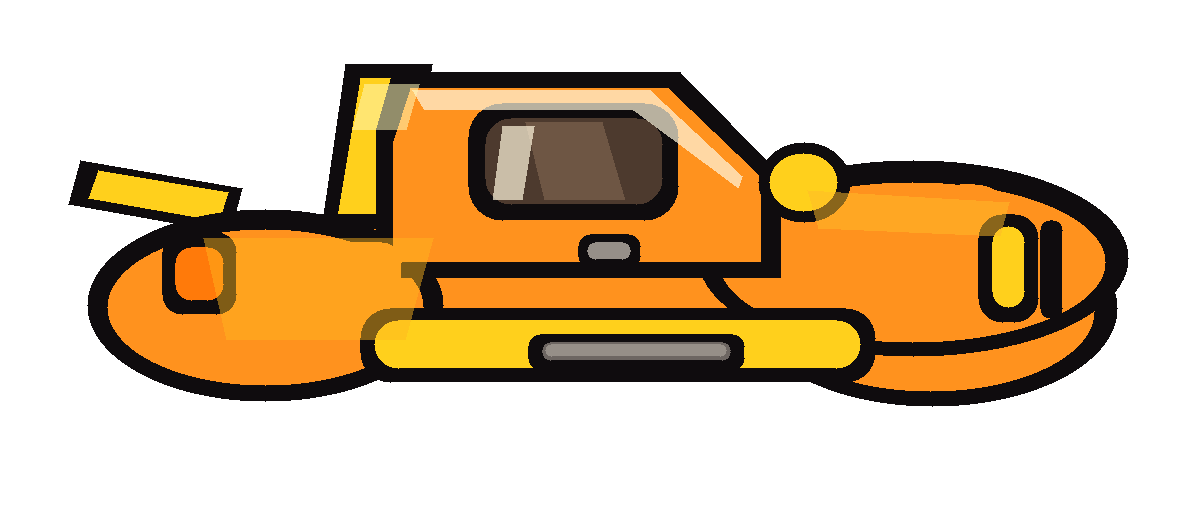
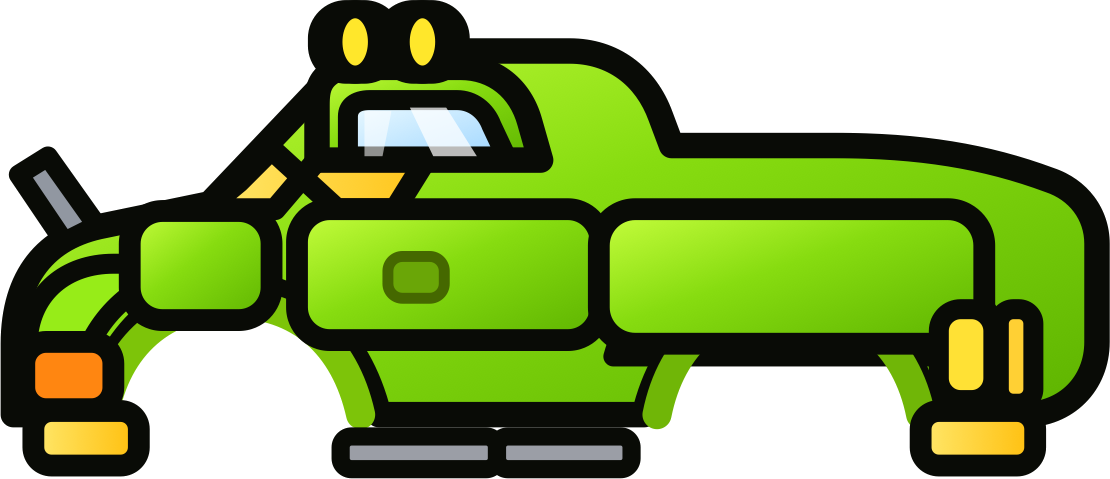
Restore green buggy sprite assets

diff --git a/cargame.html b/cargame.html
@@ -921,10 +921,10 @@
             },
             {
                 id: "dune",
-                label: "오렌지 오프로더",
+                label: "숲속 버기",
                 tagline: "선택 가능",
-                description: "참고 이미지의 오렌지 오프로드 차량을 기준으로 만든 두 번째 차량입니다. 차체와 바퀴가 PNG로 분리되어 렌더링됩니다.",
-                traits: ["신규 PNG", "분리형 바퀴", "즉시 사용 가능"],
+                description: "첨부한 초록 버기 이미지를 기준으로 다시 등록한 두 번째 차량입니다. 차체와 바퀴가 PNG로 분리되어 렌더링됩니다.",
+                traits: ["초록 버기", "분리형 바퀴", "즉시 사용 가능"],
                 available: true,
                 engine: {
                     force: 0.000392,
@@ -946,14 +946,14 @@
                     pickupBoost: 24
                 },
                 chassis: {
-                    width: 158,
+                    width: 142,
                     height: 34,
                     wheelRadius: 28,
-                    wheelOffsetX: 54,
-                    wheelOffsetY: 36,
-                    springInset: 52,
+                    wheelOffsetX: 44,
+                    wheelOffsetY: 34,
+                    springInset: 43,
                     springAnchorY: 17,
-                    braceInset: 33,
+                    braceInset: 26,
                     braceAnchorY: 9,
                     springLength: 18,
                     braceLength: 36
@@ -963,9 +963,9 @@
                     accent: "#ffd166",
                     glass: "#1d3557",
                     tint: null,
-                    spriteWidth: 196,
+                    spriteWidth: 208,
                     spriteOffsetX: 0,
-                    spriteOffsetY: -28,
+                    spriteOffsetY: -30,
                     wheelScale: 2.3,
                     wheelOffsetY: 1,
                     flipX: false,
